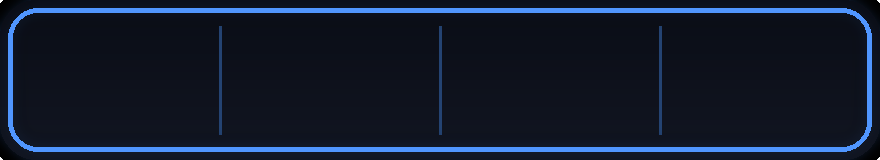
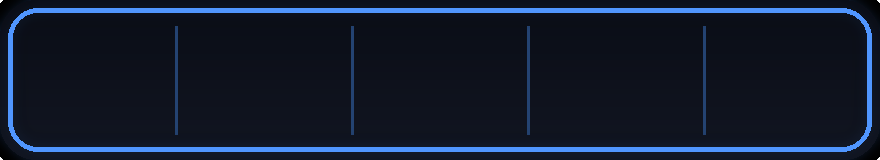
v2.78: BUG button, reports to Discord DM

diff --git a/relay/worker.js b/relay/worker.js
@@ -37,7 +37,15 @@
  *    Returns a decklist like /archidekt. Moxfield blocks servers, so TTS
  *    fetches the deck itself and the relay only converts it.
  *
- * Only Scryfall card image paths, /cards, /tokens, /moxfield and /archidekt/<id> are
+ * 6. Bug reports:  POST /bug  (body: JSON from the table's BUG button, src/bugreport.lua)
+ *    Sends the report to the table's owner on Discord with the logs as a text file:
+ *      - as a DM, when the secrets DISCORD_BOT_TOKEN and DISCORD_USER_ID are set (the bot must share a
+ *        server with that user, and the user must allow DMs from that server's members);
+ *      - otherwise to a channel, when the secret DISCORD_WEBHOOK is set.
+ *    Set them in Cloudflare: Workers > this worker > Settings > Variables and Secrets (type Secret).
+ *    One report per IP every 2 minutes; 300 KB max.
+ *
+ * Only Scryfall card image paths, /cards, /tokens, /moxfield, /archidekt/<id> and /bug are
  * accepted, so this can't be used as a general-purpose proxy.
  */
 
@@ -83,6 +91,20 @@ export default {
       }
       try {
         return await handleMoxfield(request);
+      } catch (err) {
+        return new Response("ERROR\t" + String(err && err.message ? err.message : err), {
+          status: 500,
+          headers: { "Content-Type": "text/plain" },
+        });
+      }
+    }
+
+    if (url.pathname === "/bug") {
+      if (request.method !== "POST") {
+        return new Response("POST only", { status: 405 });
+      }
+      try {
+        return await handleBug(request, env);
       } catch (err) {
         return new Response("ERROR\t" + String(err && err.message ? err.message : err), {
           status: 500,
@@ -642,4 +664,99 @@ function archidektToDecklist(deck) {
   if (attractions.length) out.push("", "Attractions", ...attractions);
   if (tokens.length) out.push("", "Tokens", ...tokens);
   return out.join("\n");
+}
+
+// ---------------------------------------------------------------------------
+// 6. Bug reports
+// ---------------------------------------------------------------------------
+
+const BUG_GAP_SECONDS = 120;
+const BUG_MAX_BYTES = 300000;
+const DISCORD_API = "https://discord.com/api/v10";
+
+function plain(text, status) {
+  return new Response(text, { status: status || 200, headers: { "Content-Type": "text/plain" } });
+}
+
+function clip(v, n) {
+  return String(v == null ? "" : v).slice(0, n);
+}
+
+async function handleBug(request, env) {
+  const hasDm = env.DISCORD_BOT_TOKEN && env.DISCORD_USER_ID;
+  if (!hasDm && !env.DISCORD_WEBHOOK) {
+    return plain("ERROR\tBug reports aren't set up on this relay.", 503);
+  }
+  const raw = await request.text();
+  if (raw.length > BUG_MAX_BYTES) {
+    return plain("ERROR\tReport too large.", 413);
+  }
+  let r;
+  try {
+    r = JSON.parse(raw);
+  } catch (e) {
+    return plain("ERROR\tNot JSON.", 400);
+  }
+  const what = clip(r.text, 1500).trim();
+  if (!what) {
+    return plain("ERROR\tEmpty report.", 400);
+  }
+
+  // One report per IP every BUG_GAP_SECONDS (Cloudflare's cache as a small timer).
+  const ip = request.headers.get("CF-Connecting-IP") || "unknown";
+  const cache = caches.default;
+  const rlKey = new Request("https://bug-rate.invalid/" + encodeURIComponent(ip));
+  if (await cache.match(rlKey)) {
+    return plain("ERROR\tPlease wait a couple of minutes between reports.", 429);
+  }
+  await cache.put(rlKey, new Response("1", { headers: { "Cache-Control": "max-age=" + BUG_GAP_SECONDS } }));
+
+  const who = clip(r.seat, 12) + (r.steam ? " (" + clip(r.steam, 40) + ")" : "");
+  const where = [
+    "v" + clip(r.version, 60),
+    clip(r.layout, 10),
+    clip(r.format, 12),
+    r.started ? "turn " + clip(r.turn, 6) + " · " + clip(r.active, 10) + " · " + clip(r.step, 16) : "no game running",
+    r.planechase ? "Planechase" : "",
+  ].filter(Boolean).join(" · ");
+  let content = "**MTG table bug report** from " + who + "\n" + where + "\n>>> " + what;
+  content = content.slice(0, 1990);
+
+  const report = [
+    "MTG table bug report",
+    "From: " + who,
+    "When: " + new Date().toISOString(),
+    where,
+    "",
+    "What happened:",
+    what,
+    "",
+    r.logs ? clip(r.logs, BUG_MAX_BYTES) : "(no logs attached)",
+  ].join("\n");
+
+  const form = new FormData();
+  // No pings from whatever players type.
+  form.append("payload_json", JSON.stringify({ content, allowed_mentions: { parse: [] } }));
+  form.append("files[0]", new Blob([report], { type: "text/plain" }), "bug-report.txt");
+
+  let res;
+  if (hasDm) {
+    const auth = { Authorization: "Bot " + env.DISCORD_BOT_TOKEN };
+    const dm = await fetch(DISCORD_API + "/users/@me/channels", {
+      method: "POST",
+      headers: { ...auth, "Content-Type": "application/json" },
+      body: JSON.stringify({ recipient_id: String(env.DISCORD_USER_ID) }),
+    });
+    if (!dm.ok) {
+      return plain("ERROR\tCouldn't open the Discord DM (" + dm.status + ").", 502);
+    }
+    const channel = await dm.json();
+    res = await fetch(DISCORD_API + "/channels/" + channel.id + "/messages", { method: "POST", headers: auth, body: form });
+  } else {
+    res = await fetch(env.DISCORD_WEBHOOK, { method: "POST", body: form });
+  }
+  if (!res.ok) {
+    return plain("ERROR\tDiscord refused the report (" + res.status + ").", 502);
+  }
+  return plain("OK");
 }

diff --git a/tools/make_console_art.py b/tools/make_console_art.py
@@ -1,7 +1,7 @@
 """
 make_console_art.py
 The console strip on the table edge in front of each seat (actions.lua): a dark plate with a glowing
-seat-colored border and four cells (START GAME, TURN OPTIONS, ROLL DICE, RULES). The labels are drawn live by the script.
+seat-colored border and five cells (START GAME, TURN OPTIONS, ROLL DICE, RULES, BUG). The labels are drawn live by the script.
     python tools/make_console_art.py
 """
 import os, sys
@@ -10,6 +10,7 @@ ROOT = os.path.dirname(os.path.dirname(os.path.abspath(__file__)))
 OUT = sys.argv[1] if len(sys.argv) > 1 else os.path.join(ROOT, "assets", "ui")
 SEAT_RGB = {"White": (205, 212, 230), "Red": (230, 70, 80), "Green": (70, 220, 120), "Blue": (80, 150, 255)}
 PPU = 80
+CELLS = 5   # must match the CONSOLE list in src/actions.lua
 W, H = int(11 * PPU), int(2.0 * PPU)
 for color, rgb in SEAT_RGB.items():
     img = Image.new("RGBA", (W, H), (0, 0, 0, 0))
@@ -20,8 +21,8 @@ for color, rgb in SEAT_RGB.items():
     for y in range(H):
         t = y / H
         pd.line([(0, y), (W, y)], fill=(int(10 + 8 * t), int(13 + 9 * t), int(22 + 12 * t), 255))
-    for i in (1, 2, 3):
-        x = int(W * i / 4)
+    for i in range(1, CELLS):
+        x = int(W * i / CELLS)
         pd.line([(x, 26), (x, H - 26)], fill=tuple(int(c * 0.45) for c in rgb) + (255,), width=3)
     img.paste(panel, (0, 0), mask)
     border = Image.new("RGBA", (W, H), (0, 0, 0, 0))
